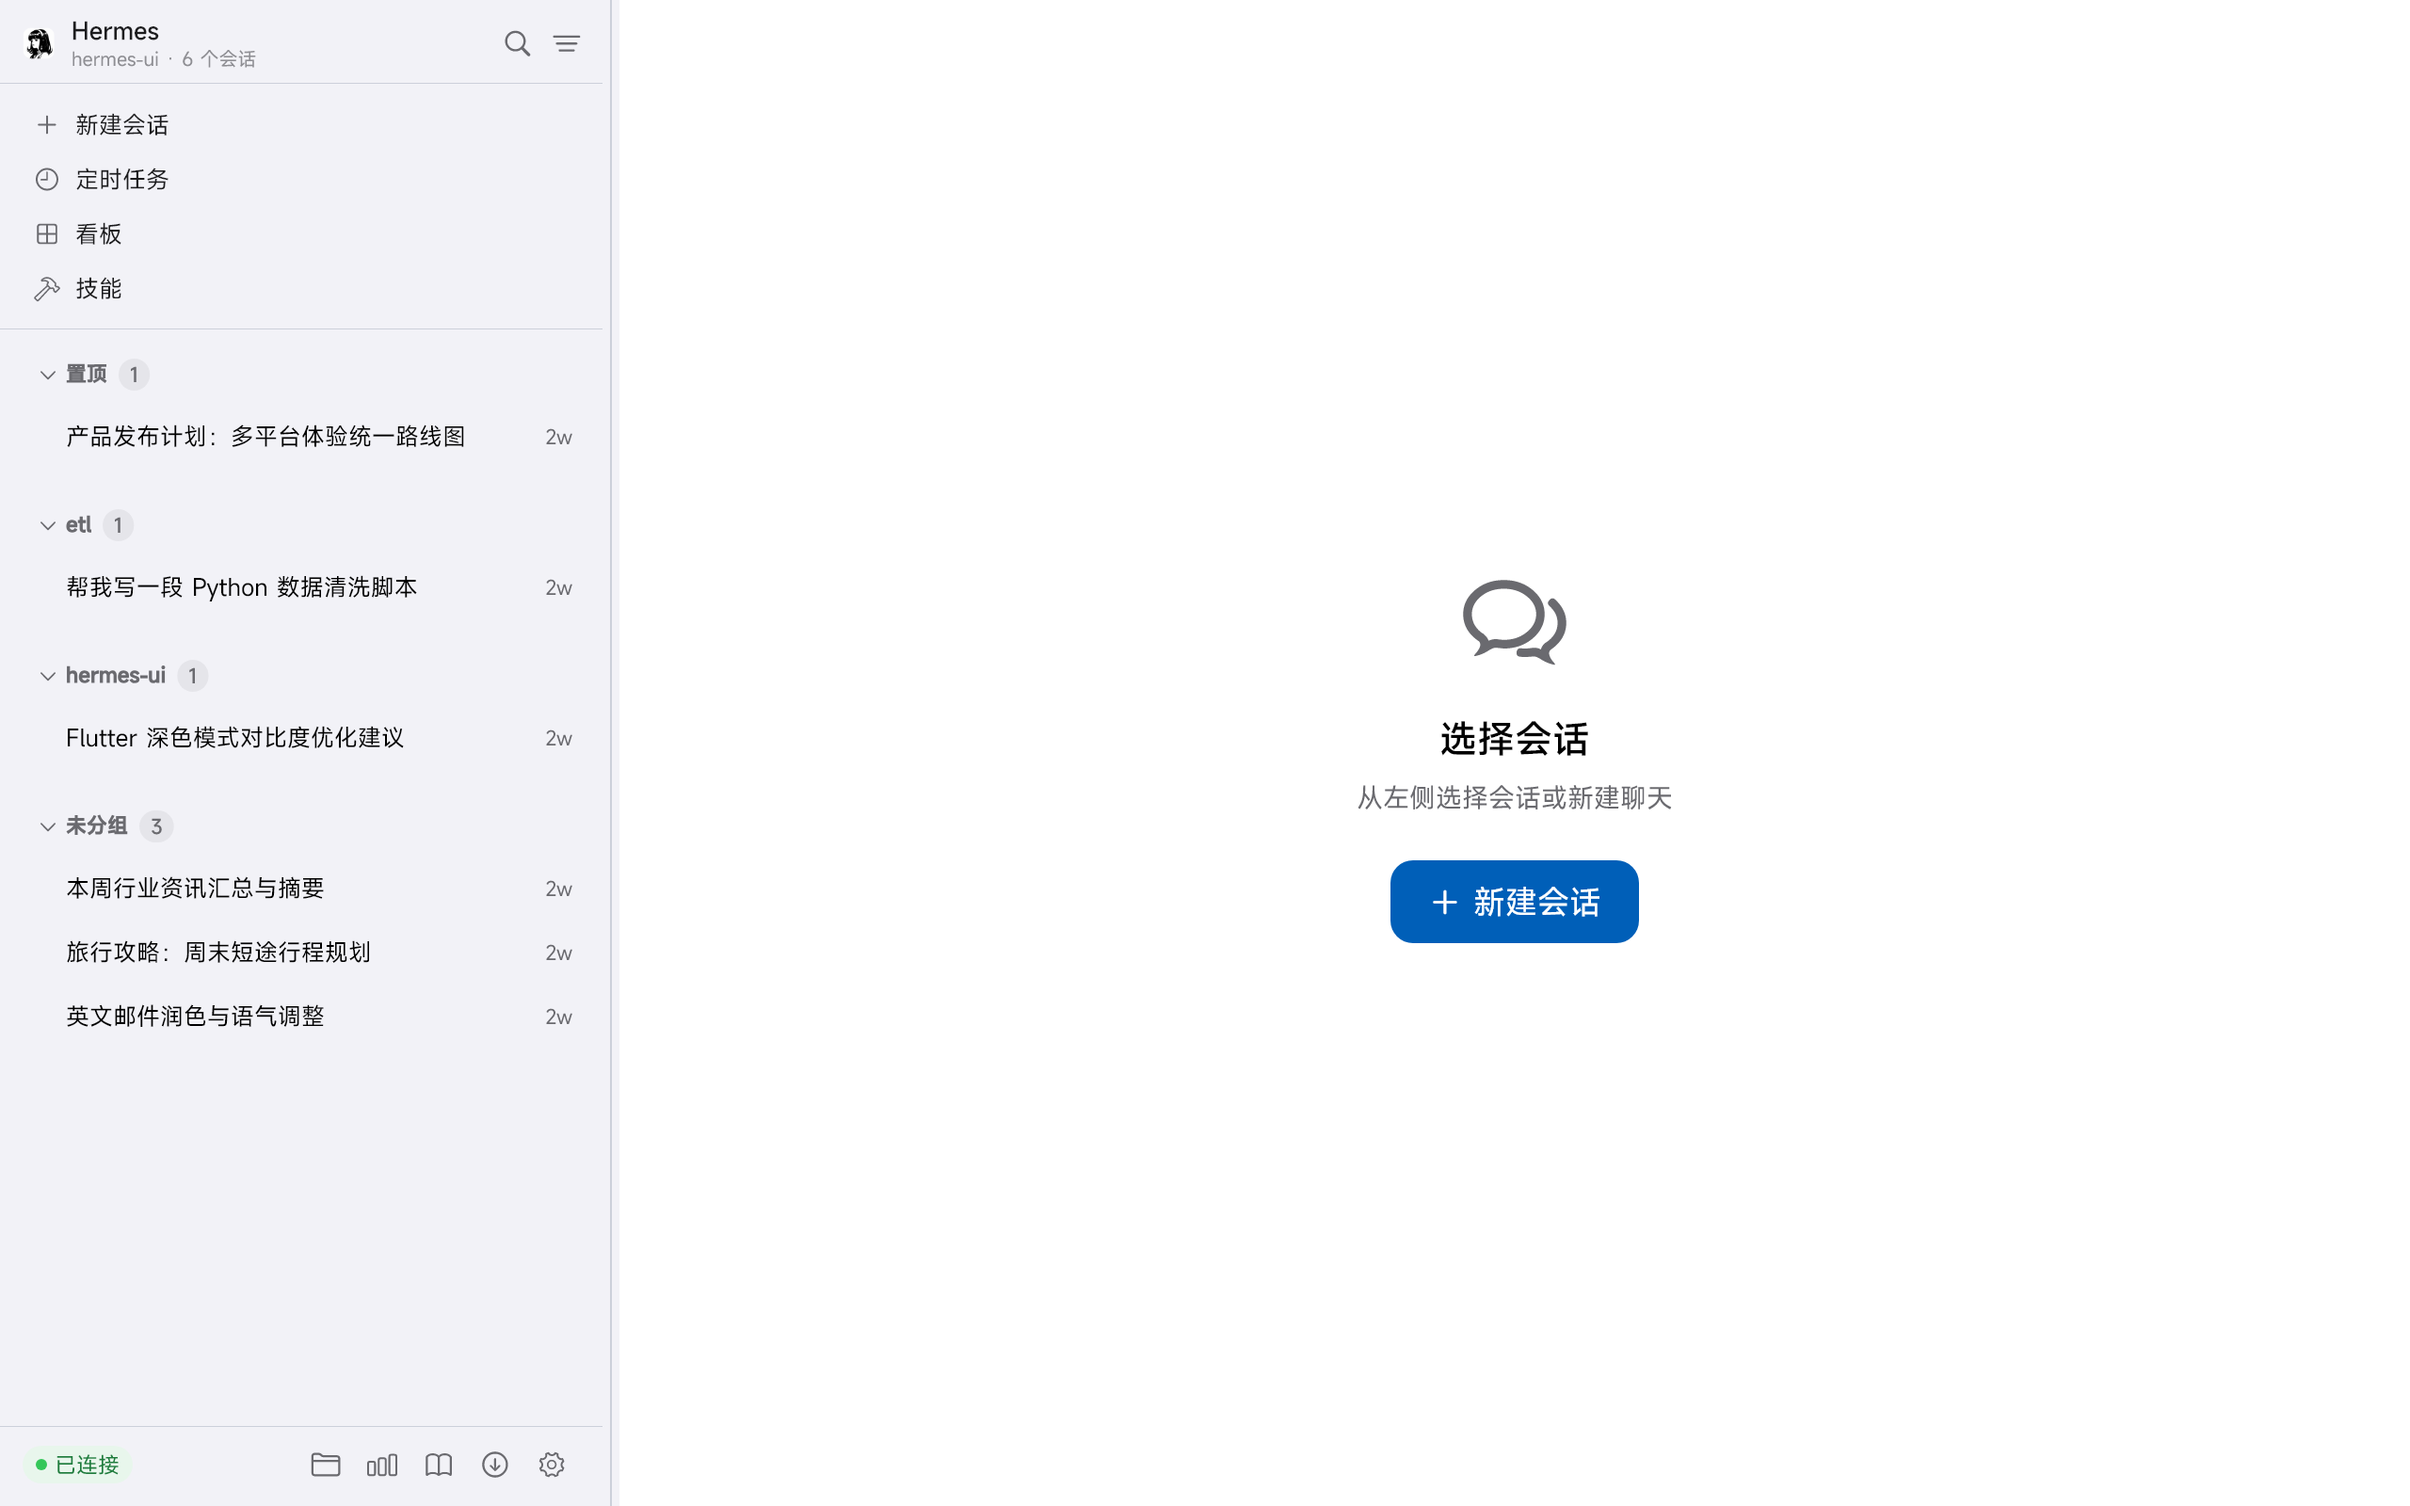
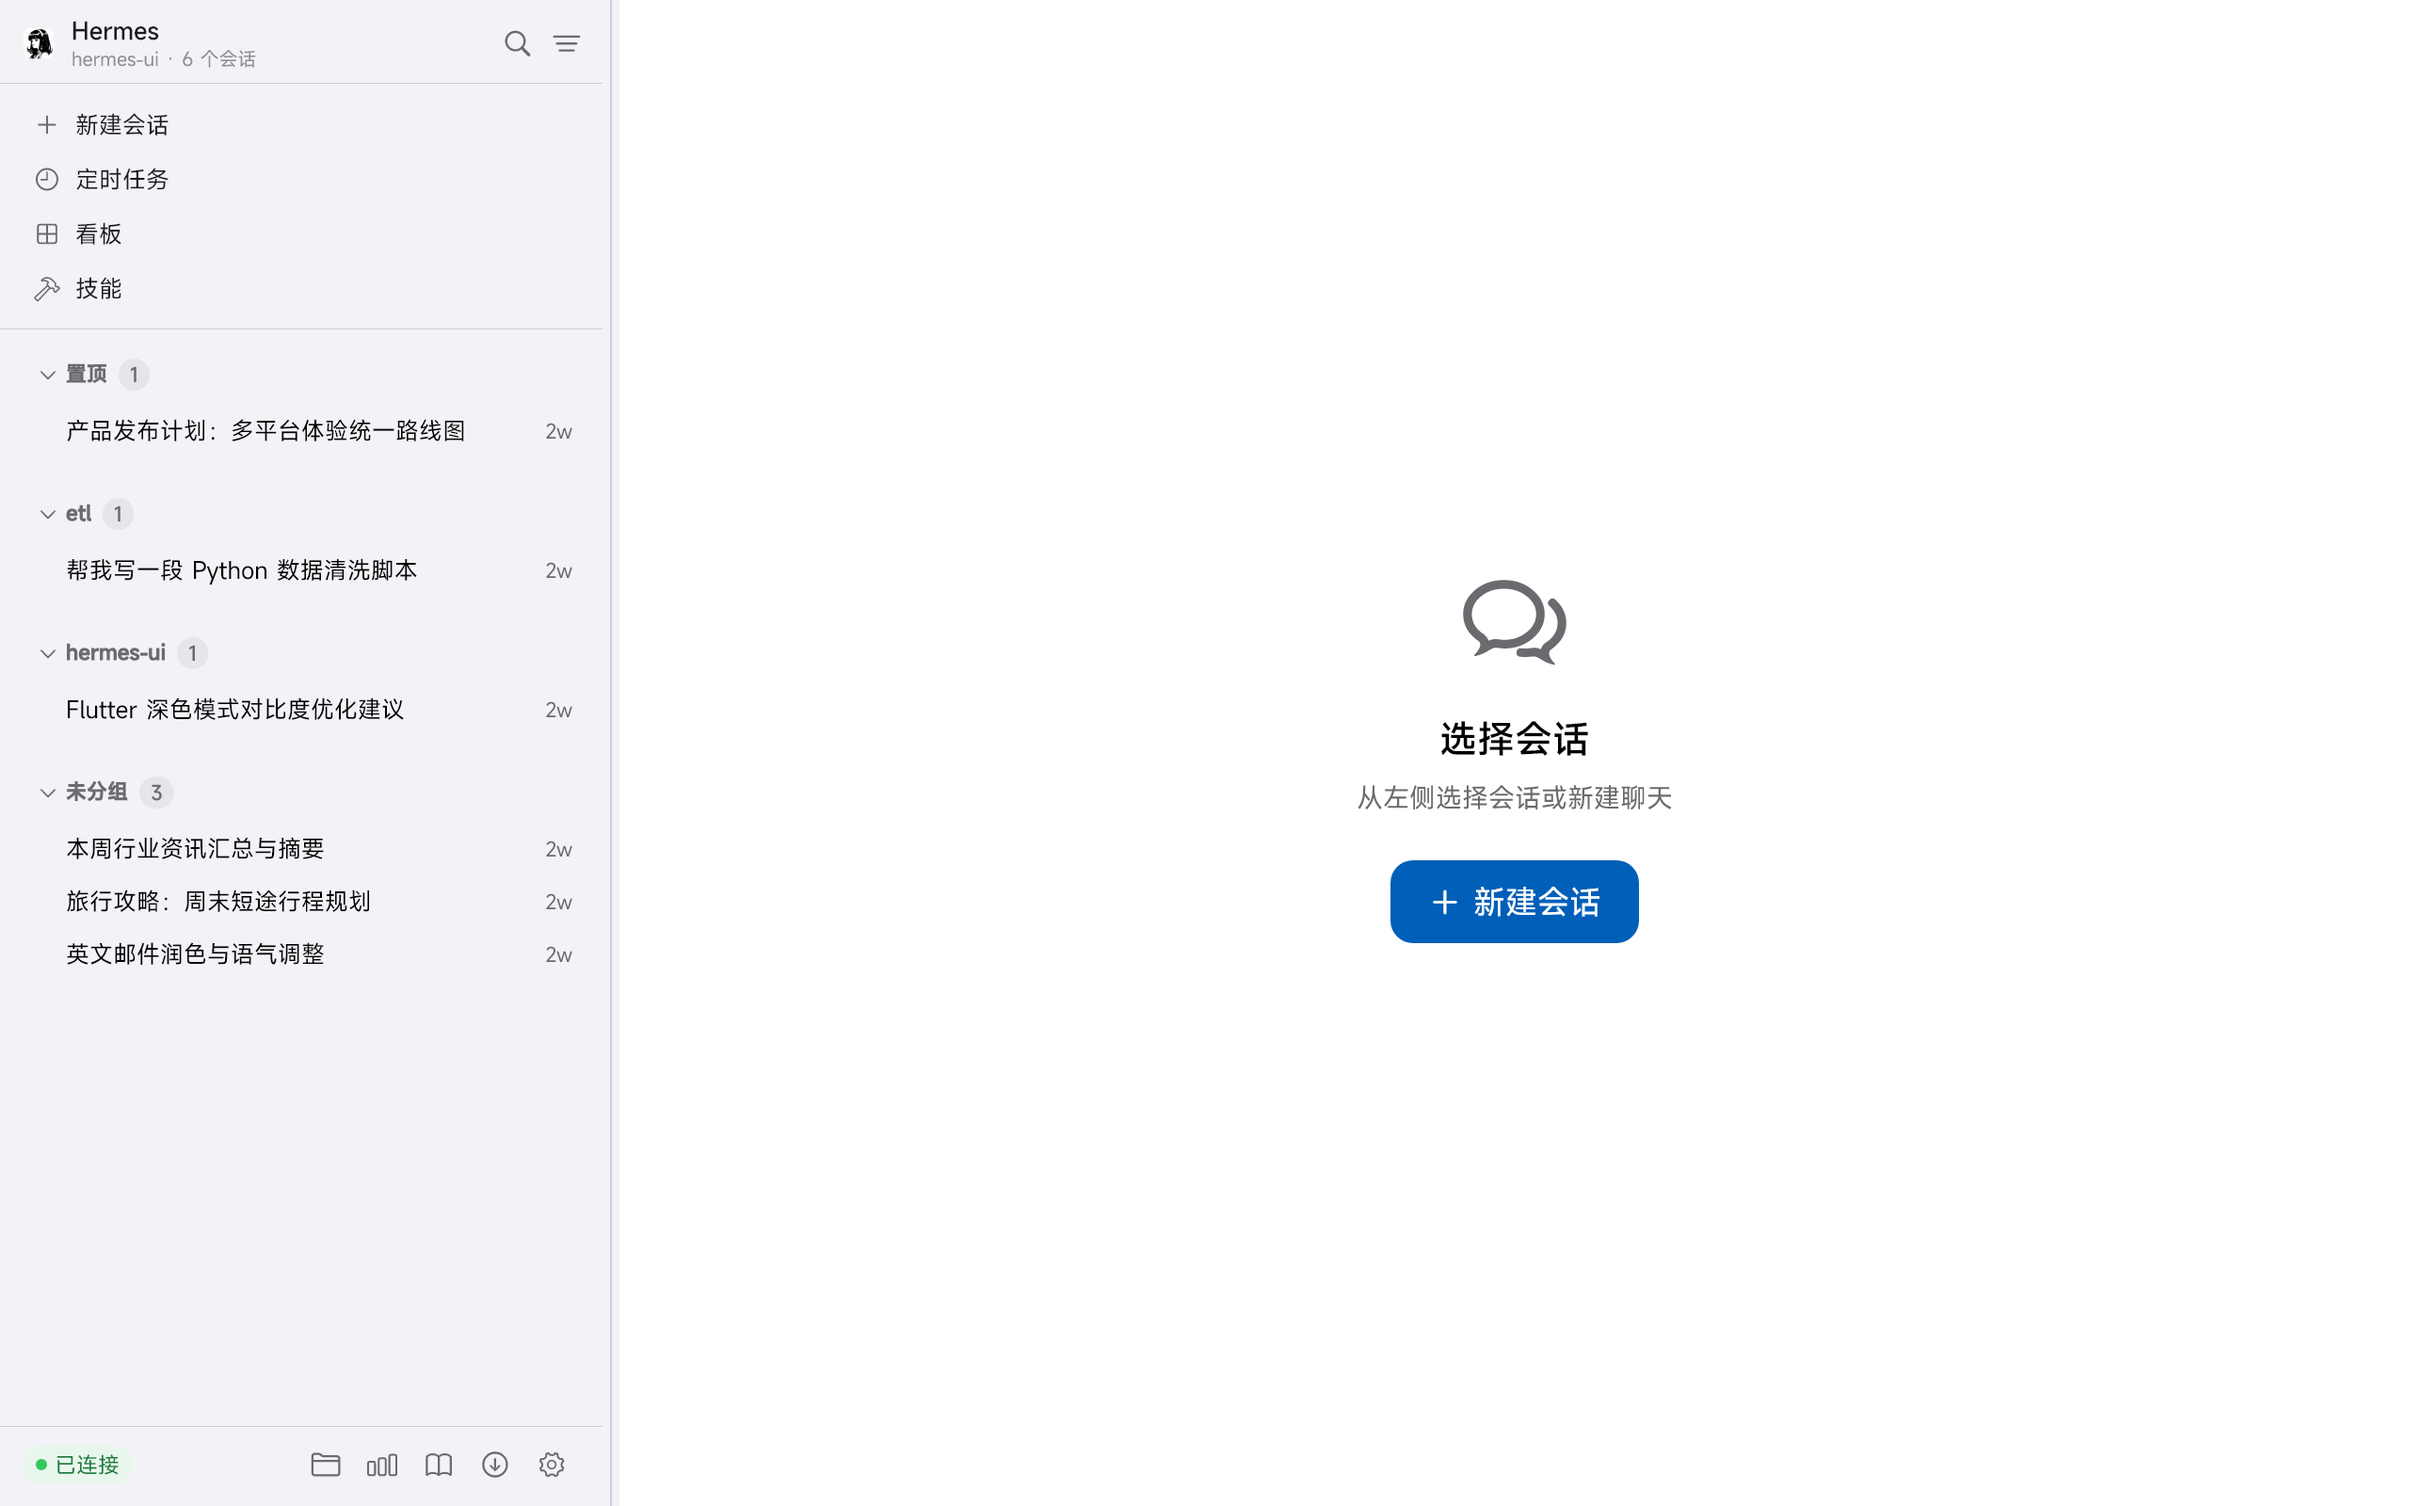
style(shell): 宽屏侧栏会话行高 34 → 28px（#161 追加三 · 主人选 B）
主人反馈「间距要不要调小一点」并要「多出几个不同间距的效果图」⇒ 出了四档
（34 / 30 / 28 / 26，见 .shots-arch/161f-spacing-variants.png），**主人选 B（28px）**。

改动（仅宽屏紧凑分支 `isCompactSidebar`）：
- `minHeight` 34 → **28**（窄屏仍为 0，由内容决定）
- 行内上下留白 7 → **4**（窄屏仍为 8）
- 一屏可见会话约 29 → **35 条**

> 前情：主人最初说「间距要不要调小一点」时我理解反了，把行距/顶部内缩**加大**了
> （提交 a6251b2），主人指出「哪儿像你调大了」后已整条 reset 撤掉。
> 教训：涉及「和设计稿对齐 / 调松紧」的改动，先出多档方案图让主人挑，
> 不自作主张落地。

验收：analyze 零告警；相关域（session_list + app + tasks + golden）**618 全绿**；
金照与截图已同步；`161g-three-way-28.png` 三栏对比（设计稿 / 改前 34 / 改后 28）人眼验收。

Changed region(s): [[0.0312, 0.375, 0.1875, 0.6875], [0.0312, 0.2812, 0.1875, 0.3125]]

diff --git a/lib/features/session_list/session_list_page.dart b/lib/features/session_list/session_list_page.dart
@@ -1849,7 +1849,9 @@ class _SessionRowState extends State<_SessionRow> {
       // #153：锁死行高 —— 悬停时右侧由「时间」换成「⋯」按钮，两者尺寸不同，
       // 原先会让行高浮动（主人反馈 hover 后行高变化）。固定最小高度后，
       // 两种状态的行在视觉上完全等高。
-      constraints: BoxConstraints(minHeight: widget.compact ? 34.0 : 0.0),
+      // #161：行高 34 → 28（主人从四档方案图里选 B：更紧凑但仍舒展，
+      // 一屏约 29 → 35 条）。窄屏（非 compact）不受影响。
+      constraints: BoxConstraints(minHeight: widget.compact ? 28.0 : 0.0),
       child: Padding(
         // #151/#152：紧凑模式会话项与「工作区名」左对齐（主人要求）。
         // 几何：组头文字 x = 组头 Padding.start(20) + chevron(11) + gap(4) = 35；
@@ -1860,8 +1862,9 @@ class _SessionRowState extends State<_SessionRow> {
         padding: EdgeInsetsDirectional.only(
           start: widget.compact ? 27 : 16,
           end: widget.compact ? 8 : 16,
-          top: widget.compact ? 7 : 8,
-          bottom: widget.compact ? 7 : 8,
+          // #161：随行高一起收（7 → 4），窄屏保持 8。
+          top: widget.compact ? 4 : 8,
+          bottom: widget.compact ? 4 : 8,
         ),
         child: Row(
           children: [
